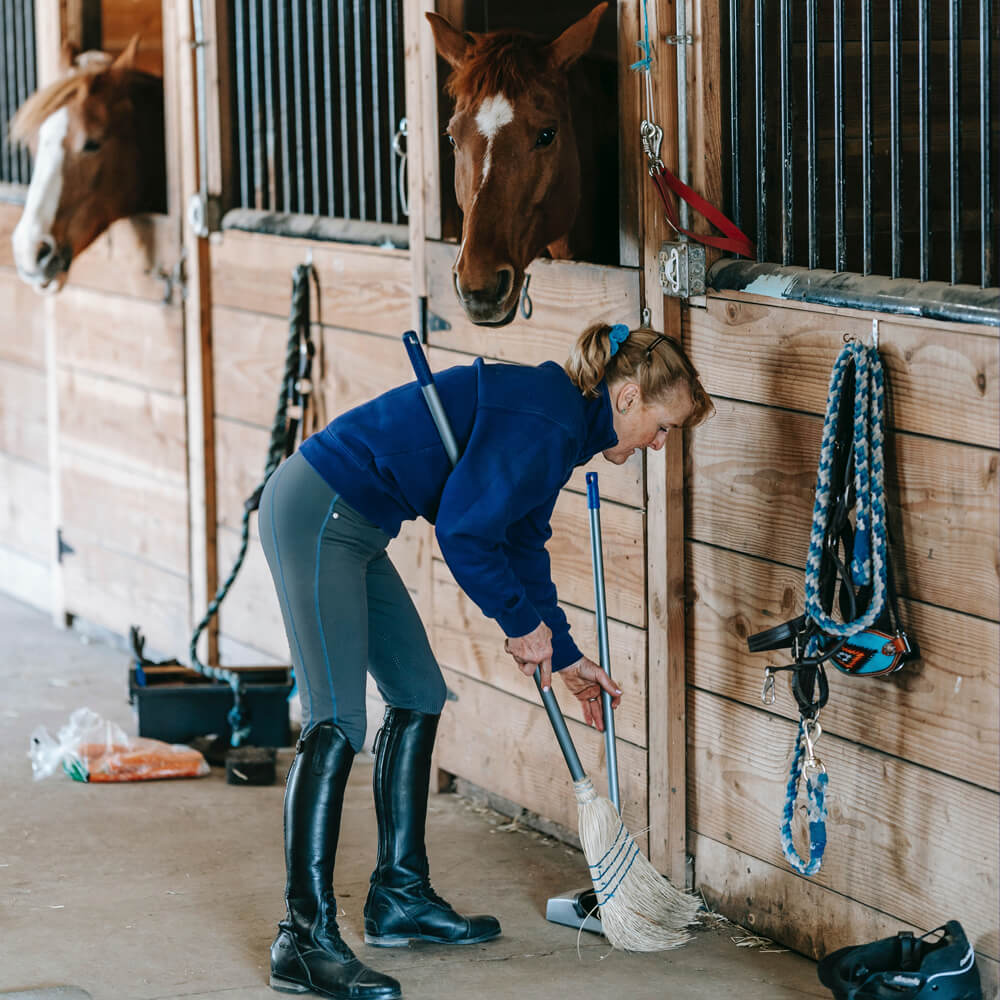
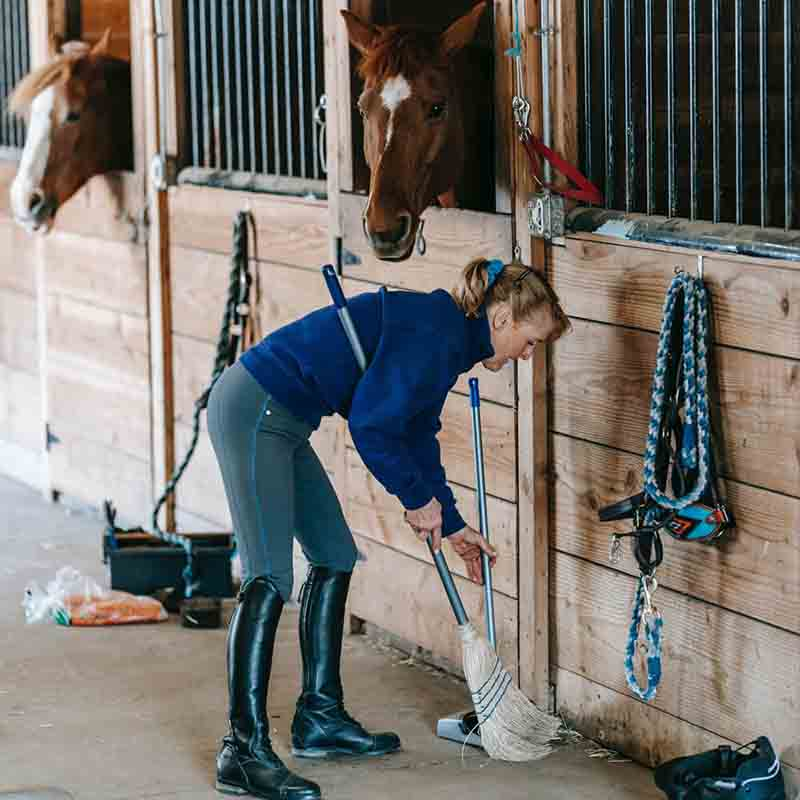
lighthouse picked up three images that could have been smaller.  images edited in photoshop and uploaded, old images deleted

diff --git a/index.html b/index.html
@@ -61,7 +61,7 @@
         <div class="Container-fluid g-0">
             <div class="row g-0">
                 <div class="col-4 d-none d-md-block about-img"> <!-- img not shown on small devices -->
-                        <img class="img-fluid w-100" src="assets/images/about-us.jpg" alt="two horses in stables with their heads poking out over the doors">   
+                        <img class="img-fluid w-100" src="assets/images/contact us.jpg" alt="two horses in stables with their heads poking out over the doors">   
                 </div>
                 <div class="col-12 col-md-8 about-text"> <!-- column full width on small devices -->
                     <h2>Radstone Farm</h2>

diff --git a/README.md b/README.md
@@ -329,6 +329,11 @@ In order to make the site as accessible as possible I used the [w3c guidelines](
 
 # Future Implementations
 
+A gallery
+Social media feed on page 
+footer - nav menu and contact details
+An events page -
+
 <br>
 <br>
 
@@ -590,10 +595,14 @@ For this section I manually tested every feature on every page to ensure all the
 
 <br>
 
+I have been testing throughout the build using Google dev tools.
+
 Safari nav menu - unable to change 
 Wave - text contrast -  changed 
 Wave - links being the same next to the logo link - did not change - 
 Hamburger menu alignment on very small phones 280px (ie galaxy fold) and the contact button on this size device also - did not have time to change
+Lighthouse?
+code validator
 
 <br>
 <br>
